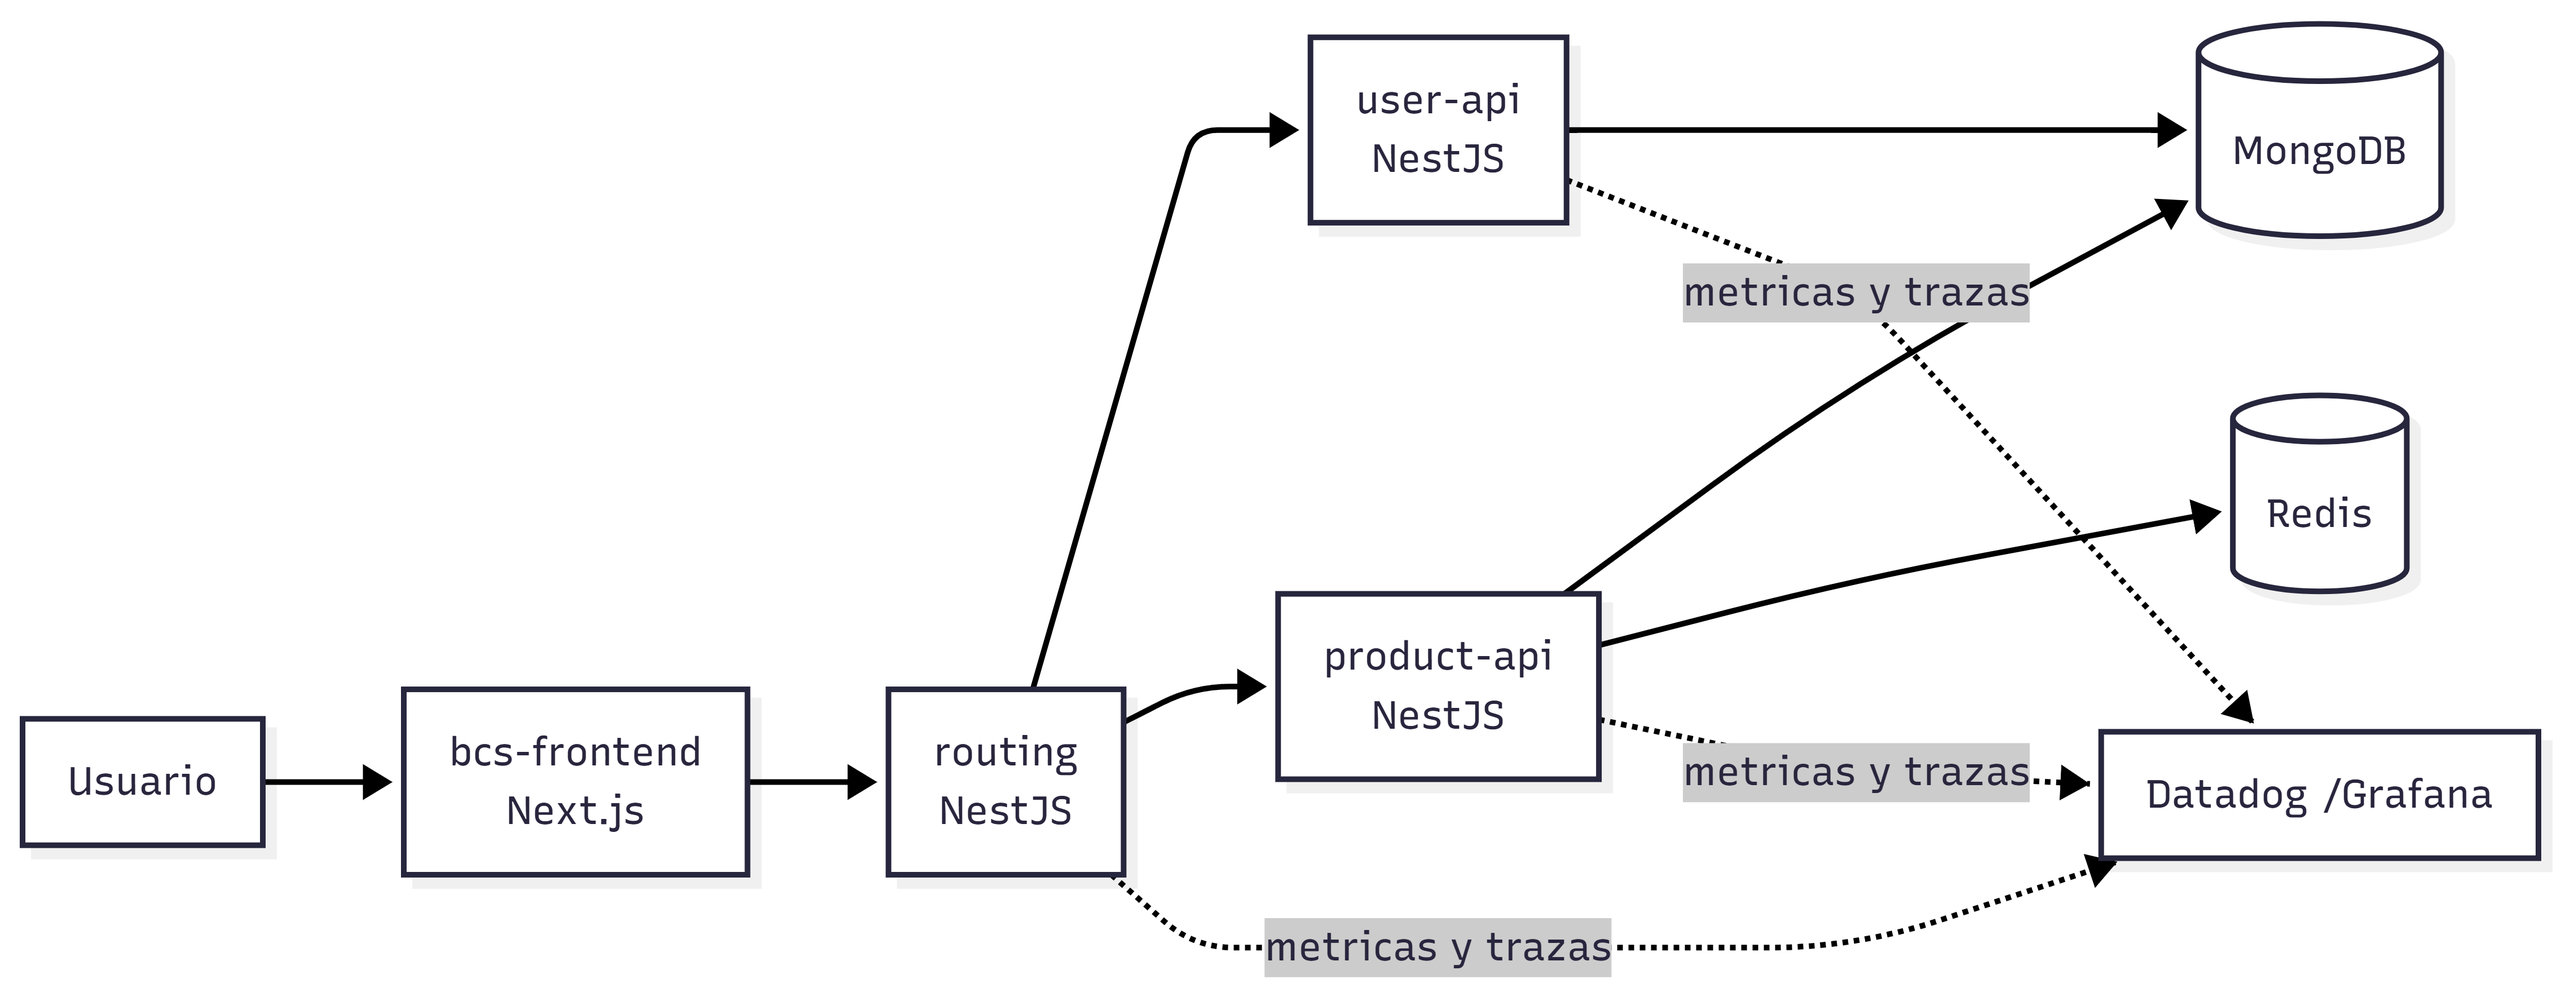
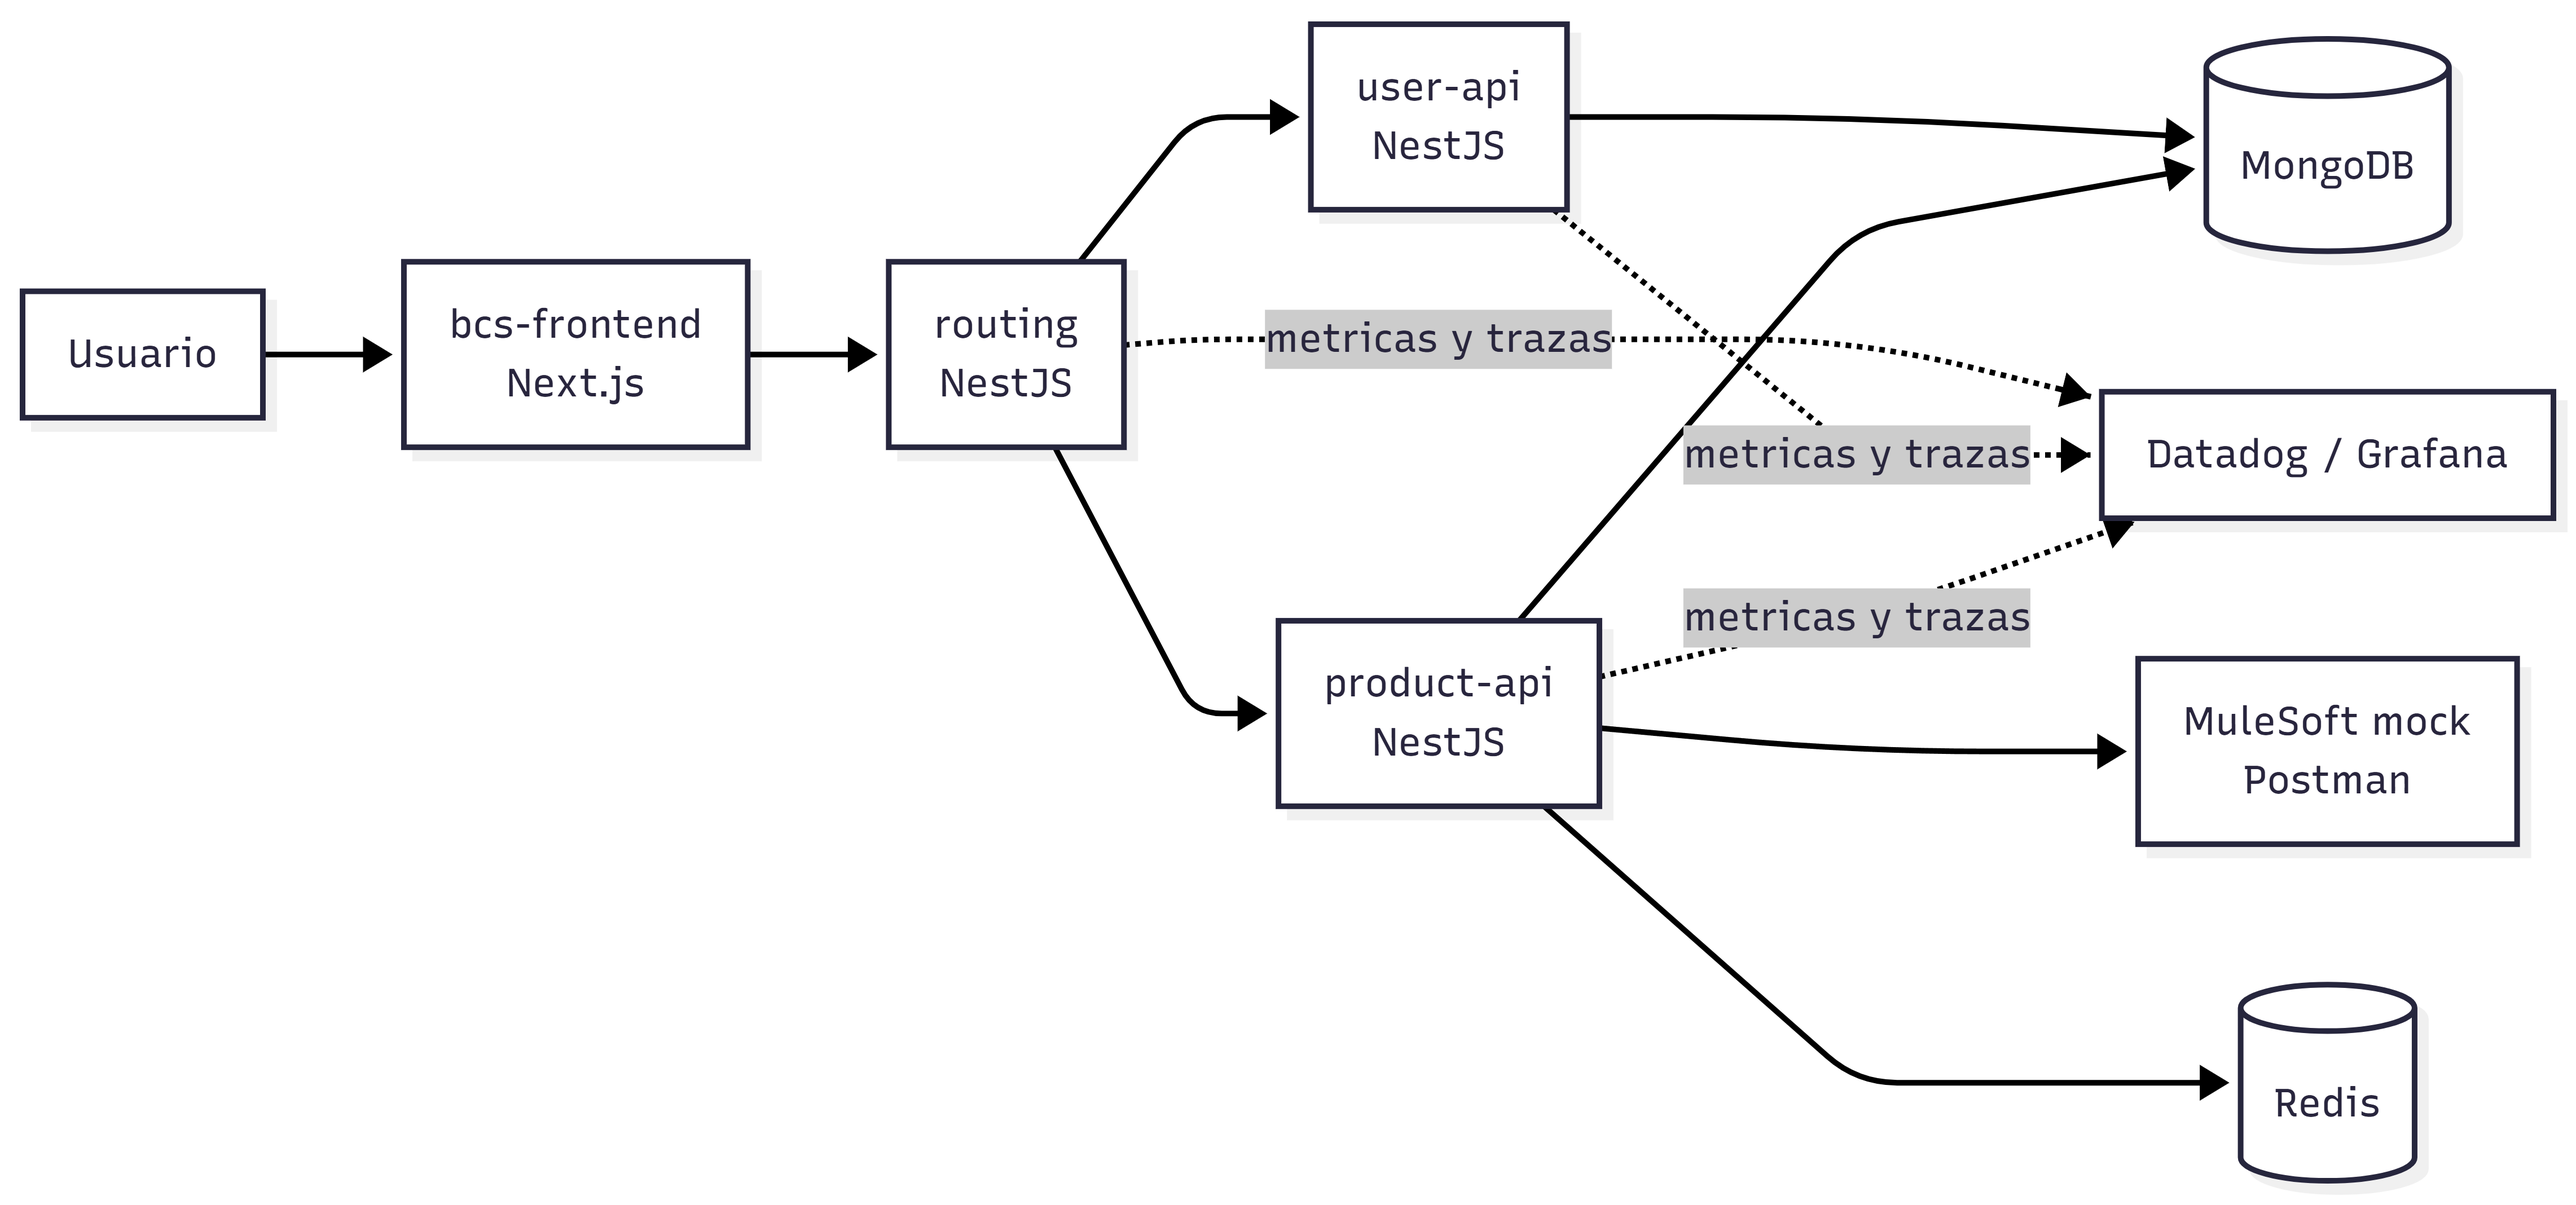
feat: update README to clarify external service integration and telemetry details

diff --git a/README.md b/README.md
@@ -38,9 +38,9 @@ Flujo principal de comunicacion:
 - El usuario consume la interfaz web en `bcs-frontend`.
 - El frontend se comunica con `routing`.
 - `routing` centraliza las llamadas hacia `user-api` y `product-api`.
-- `routing` puede consumir servicios externos expuestos por `MuleSoft` mediante un mock para ambientes de desarrollo o pruebas.
 - `user-api` y `product-api` persisten informacion en `MongoDB`.
 - `product-api` usa `Redis` como apoyo para cache.
+- `product-api` puede consumir servicios externos expuestos por `MuleSoft` para temas de prueba consume un mock de `Postman`.
 - Los servicios backend envian telemetria a `Datadog`.
 
 ## Aplicaciones
@@ -59,5 +59,3 @@ Flujo principal de comunicacion:
 - `Postman / MuleSoft` como integracion externa simulada mediante mock para pruebas de consumo.
 - `Datadog` y `OpenTelemetry` para trazabilidad y monitoreo.
 - `Arquitectura hexagonal` para separar dominio, aplicacion e infraestructura.
-
-
